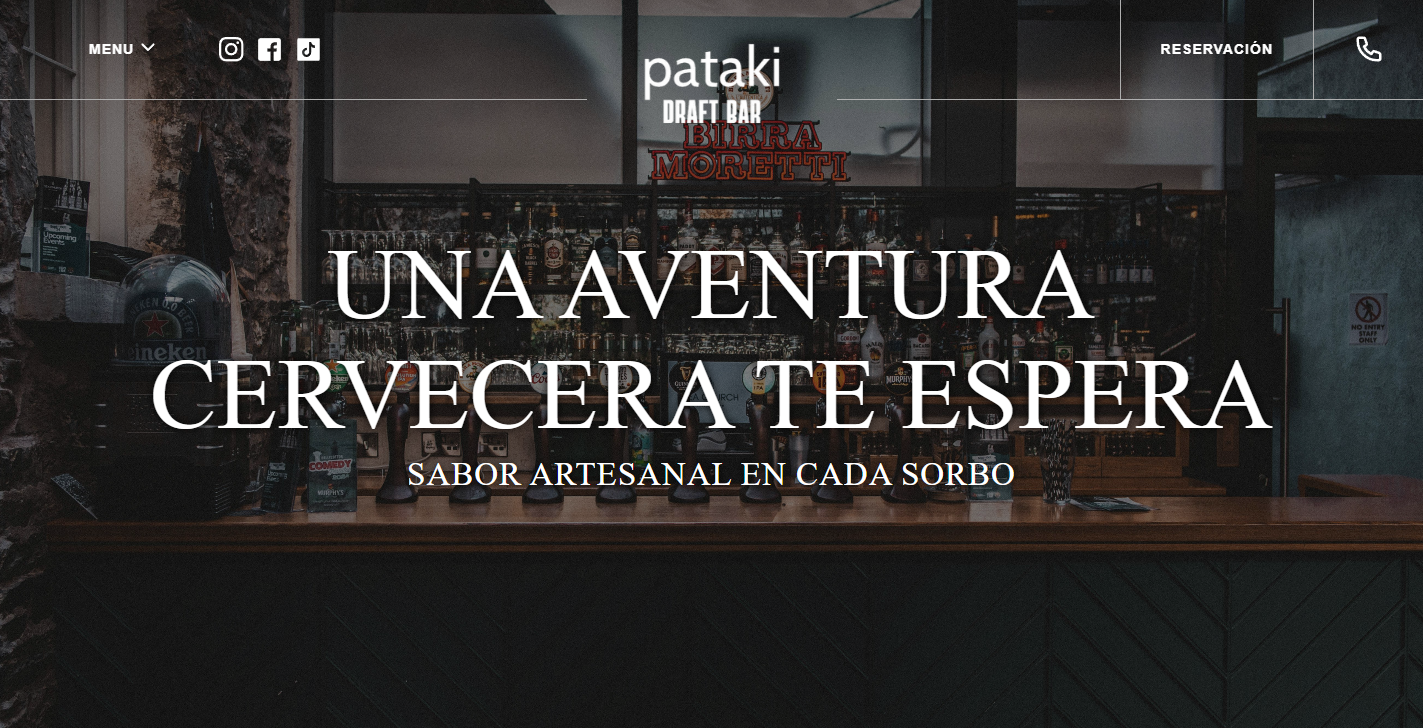
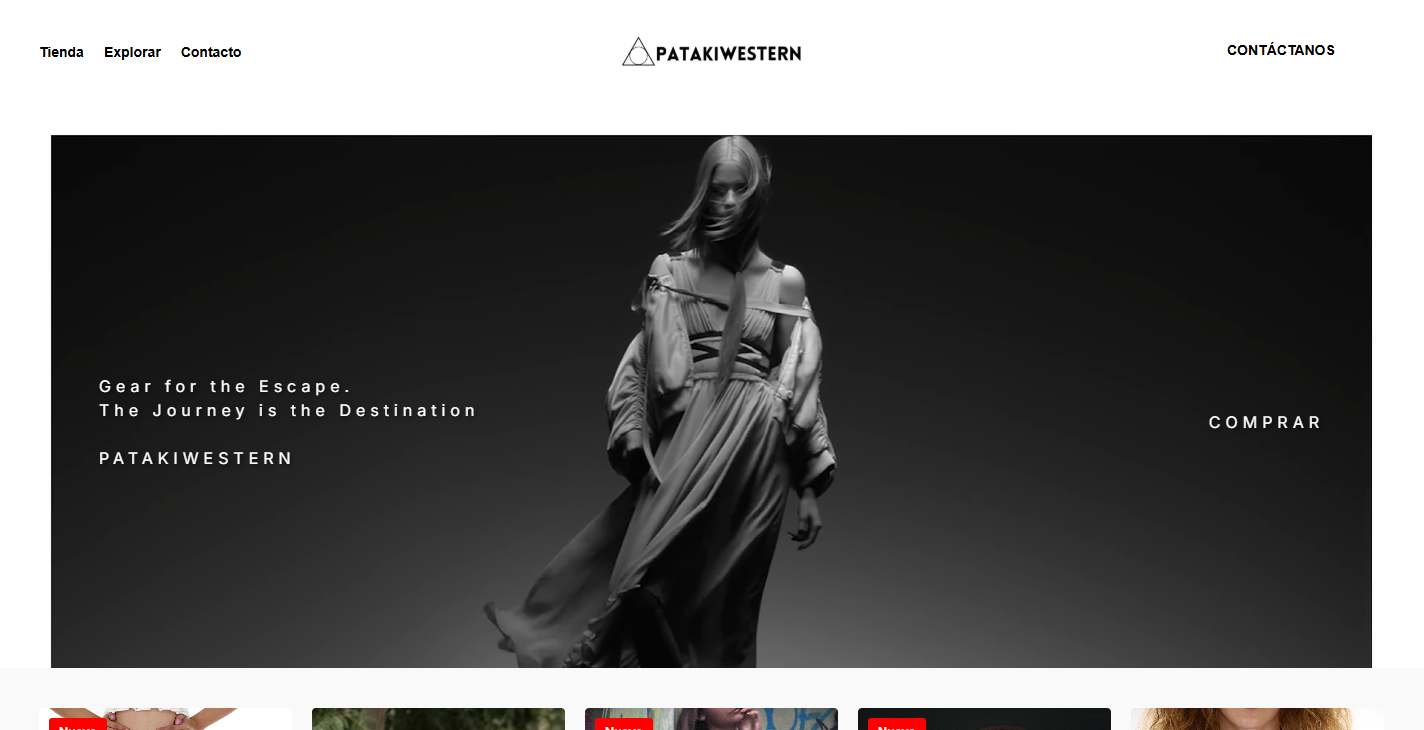
bloque contacto en el home

diff --git a/src/app/solicita-tu-landing/page.tsx b/src/app/solicita-tu-landing/page.tsx
@@ -1,0 +1,127 @@
+export default function RequestLanding() {
+  return (
+    <main className="px-4 pt-16 pb-24 max-w-2xl mx-auto">
+      {/* Intro */}
+      <section className="mb-12">
+        <h1 className="text-3xl font-semibold leading-tight mb-4">
+          Solicita tu landing
+        </h1>
+        <p className="text-sm text-neutral-500 leading-relaxed">
+          Cuéntame brevemente tu idea. Te responderé personalmente para ver si
+          encajamos y cómo puedo ayudarte.
+        </p>
+      </section>
+
+      {/* Form */}
+      <section>
+        <form className="space-y-10">
+          {/* Datos básicos */}
+          <fieldset className="space-y-6">
+            <legend className="text-xs uppercase tracking-widest text-neutral-400">
+              Datos básicos
+            </legend>
+
+            <div className="space-y-2">
+              <label className="text-sm">Nombre</label>
+              <input
+                type="text"
+                placeholder="Tu nombre"
+                required
+                className="w-full border-b border-neutral-300 bg-transparent py-2 text-sm focus:outline-none focus:border-neutral-900"
+              />
+            </div>
+
+            <div className="space-y-2">
+              <label className="text-sm">Email</label>
+              <input
+                type="email"
+                placeholder="tu@email.com"
+                required
+                className="w-full border-b border-neutral-300 bg-transparent py-2 text-sm focus:outline-none focus:border-neutral-900"
+              />
+            </div>
+          </fieldset>
+
+          {/* Proyecto */}
+          <fieldset className="space-y-6">
+            <legend className="text-xs uppercase tracking-widest text-neutral-400">
+              Proyecto
+            </legend>
+
+            <div className="space-y-2">
+              <label className="text-sm">Tipo de proyecto</label>
+              <select className="w-full border-b border-neutral-300 bg-transparent py-2 text-sm focus:outline-none">
+                <option value="">Selecciona una opción</option>
+                <option>Proyecto personal</option>
+                <option>Negocio / emprendimiento</option>
+                <option>Marca personal</option>
+                <option>Otro</option>
+              </select>
+            </div>
+
+            <div className="space-y-2">
+              <label className="text-sm">Objetivo</label>
+              <select className="w-full border-b border-neutral-300 bg-transparent py-2 text-sm focus:outline-none">
+                <option value="">Selecciona una opción</option>
+                <option>Vender</option>
+                <option>Conseguir contactos</option>
+                <option>Presencia online</option>
+                <option>Otro</option>
+              </select>
+            </div>
+
+            <div className="space-y-2">
+              <label className="text-sm">Cuéntame la idea</label>
+              <textarea
+                rows={4}
+                placeholder="Qué quieres comunicar, a quién va dirigida, etc."
+                className="w-full border border-neutral-300 bg-transparent p-3 text-sm focus:outline-none focus:border-neutral-900 resize-none"
+              />
+            </div>
+          </fieldset>
+
+          {/* Alcance */}
+          <fieldset className="space-y-6">
+            <legend className="text-xs uppercase tracking-widest text-neutral-400">
+              Alcance
+            </legend>
+
+            <div className="space-y-2">
+              <label className="text-sm">Presupuesto</label>
+              <select className="w-full border-b border-neutral-300 bg-transparent py-2 text-sm focus:outline-none">
+                <option value="">Rango aproximado</option>
+                <option>Menos de $300</option>
+                <option>$300 – $600</option>
+                <option>Más de $600</option>
+              </select>
+            </div>
+
+            <div className="space-y-2">
+              <label className="text-sm">Plazo</label>
+              <select className="w-full border-b border-neutral-300 bg-transparent py-2 text-sm focus:outline-none">
+                <option value="">Selecciona</option>
+                <option>Lo antes posible</option>
+                <option>1–2 semanas</option>
+                <option>Flexible</option>
+              </select>
+            </div>
+          </fieldset>
+
+          {/* CTA */}
+          <div className="pt-6">
+            <button
+              type="submit"
+              className="w-full py-4 text-sm uppercase tracking-widest border border-neutral-900 hover:bg-neutral-900 hover:text-white transition"
+            >
+              Enviar solicitud
+            </button>
+
+            <p className="text-xs text-neutral-400 text-center mt-4">
+              Respuesta humana. Sin spam. Sin compromiso.
+            </p>
+          </div>
+        </form>
+      </section>
+    </main>
+  );
+}

diff --git a/src/app/components/HomeForm/HomeForm.jsx b/src/app/components/HomeForm/HomeForm.jsx
@@ -1,0 +1,46 @@
+const HomeForm = () => {
+    return (
+        <section id="demos" className="scroll-mt-16 flex flex-col bg-background py-12 md:py-16">
+            <div className="w-full max-w-6xl mx-auto px-4 sm:px-6">
+                <h2 className="text-3xl sm:text-4xl md:text-5xl font-display leading-tight mb-6 text-foreground text-center md:text-left">
+                    Ponte en{" "}
+                    <span className="bg-clip-text text-transparent bg-gradient-to-r from-[#7928CA] to-[#FF0080]">
+                        contacto
+                    </span>{" "}
+                    con{" "}
+                    <span className="bg-clip-text text-transparent bg-gradient-to-r from-[#7928CA] to-[#FF0080]">
+                        nosotros
+                    </span>{" "}
+                </h2>
+
+                <p className="text-[var(--color-foreground-secondary)] font-sans text-base sm:text-lg max-w-3xl text-center md:text-left mx-auto md:mx-0">
+                    Escríbenos y nos pondremos en contacto contigo para ayudarte a crear la web que necesitas.
+                </p>
+
+                <div className="mt-8 flex-col flex items-left justify-center md:justify-start gap-4">
+                    <input
+                        type="text"
+                        placeholder="Nombre *"
+                        className="w-full max-w-xl px-4 py-3 rounded-md border-b-2 border-[var(--color-galaxy-start)] focus:outline-none focus:border-transparent"
+                    />
+                    <input
+                        type="email"
+                        placeholder="Correo electrónico *"
+                        className="w-full max-w-xl px-4 py-3 rounded-md border-b-2 border-[#BB33A8] focus:outline-none focus:border-transparent"
+                    />
+                    <input
+                        type="text"
+                        placeholder="Teléfono"
+                        className="w-full max-w-xl px-4 py-3 rounded-md border-b-2 border-[var(--color-galaxy-end)] focus:outline-none focus:border-transparent"
+                    />
+                    <button className="w-full max-w-xl font-display cursor-pointer bg-gradient-to-r from-[var(--color-galaxy-start)] to-[var(--color-galaxy-end)] text-white px-4 py-2 sm:py-3 rounded-xl text-sm sm:text-sm md:text-base font-medium hover:from-[#FF0080] hover:to-[#7928CA] transition-colors duration-300 inline-block mt-4">
+                        Enviar
+                    </button>
+                </div>
+
+            </div>
+        </section>
+    );
+};
+
+export default HomeForm;

diff --git a/src/app/components/Demos/Demos.tsx b/src/app/components/Demos/Demos.tsx
@@ -19,9 +19,9 @@ const DEMOS = [
     {
         src: "/demos/demo3.png",
         alt: "Demo 3",
-        title: "Tradición, carácter y sabor",
-        desc: "Una web con estética artesanal y energía contemporánea. Perfecta para conectar con la comunidad y destacar su autenticidad.",
-        link: "https://demo1.vercel.app",
+        title: "Estilo, moda y carácter",
+        desc: "Una web con estética minimalista y energía contemporánea. Perfecta para conectar con la comunidad y destacar su autenticidad.",
+        link: "/demo3",
     },
 ];
 

diff --git a/src/app/page.tsx b/src/app/page.tsx
@@ -4,6 +4,7 @@ import Demos from "./components/Demos/Demos";
 import Cta from "./components/Cta/Cta";
 import HowItWorks from "./components/HowItWorks/HowItWorks";
 import Prices from "./components/Prices/Prices";
+import HomeForm from "./components/HomeForm/HomeForm"; 
 
 export default function Home() {
   return (
@@ -14,6 +15,7 @@ export default function Home() {
         <Cta />
         <HowItWorks />
         <Prices />
+        <HomeForm />
     </>
   );
 }
